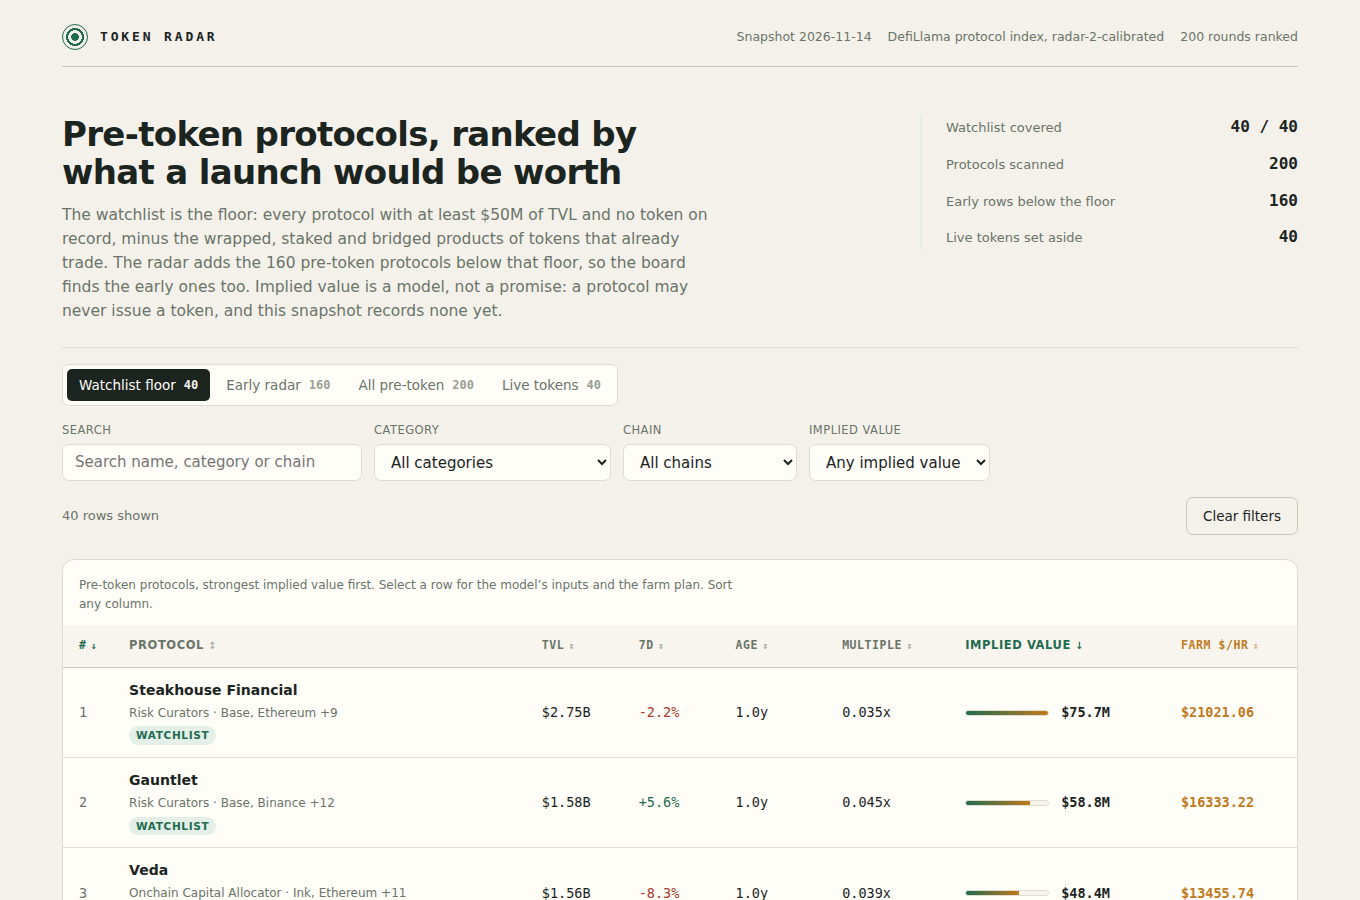
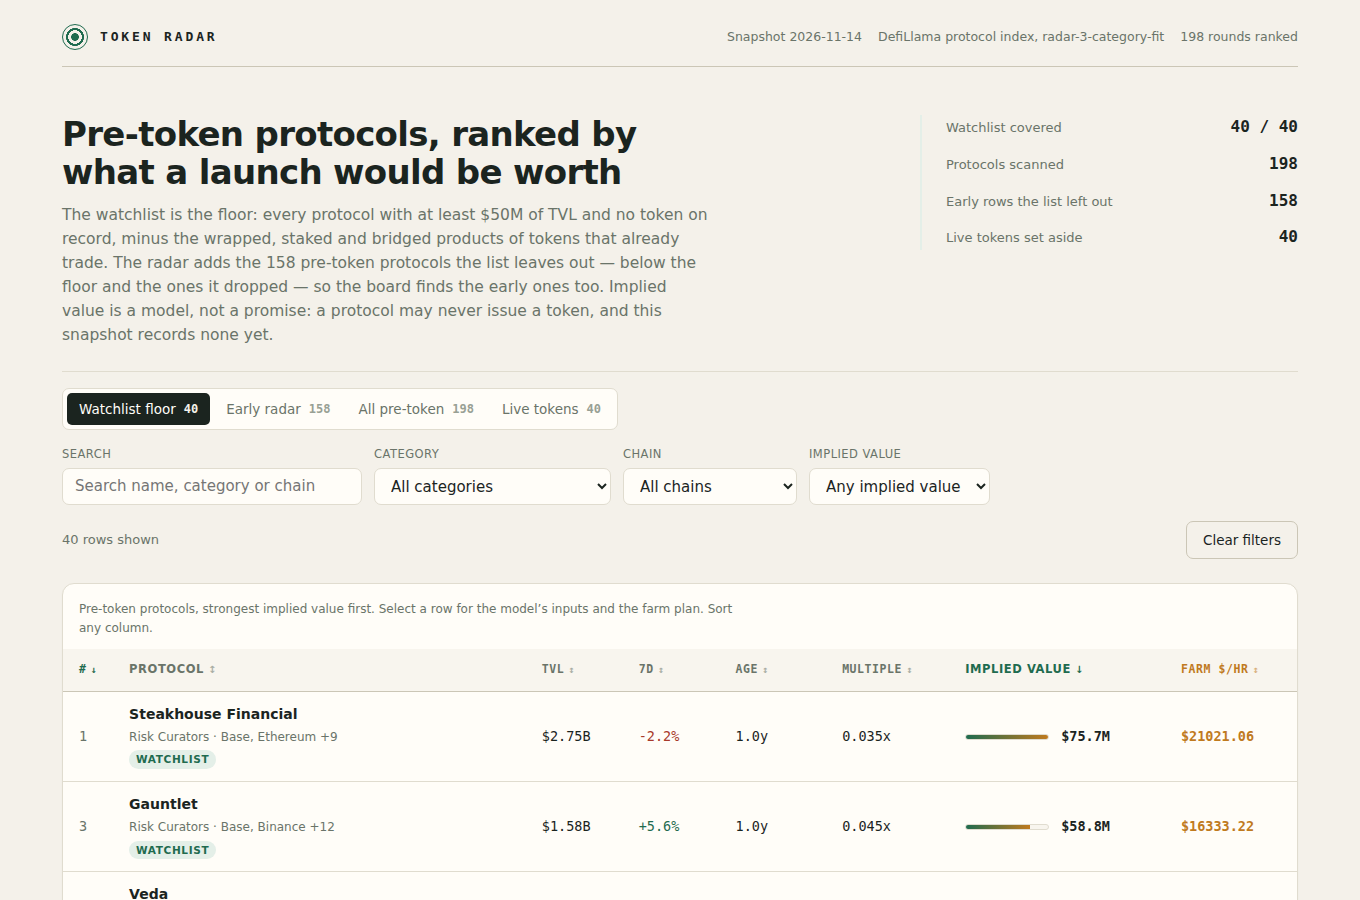
board: rank every pre-token protocol, score the early radar by implied value

diff --git a/dashboard/app.js b/dashboard/app.js
@@ -241,12 +241,12 @@
     return el('section', { class: 'lede' },
       el('div', { class: 'lede-copy' },
         el('h1', { text: 'Pre-token protocols, ranked by what a launch would be worth' }),
-        el('p', { text: 'The watchlist is the floor: every protocol with at least $' + Math.round(DATA.floor_usd / 1e6) + 'M of TVL and no token on record, minus the wrapped, staked and bridged products of tokens that already trade. The radar adds the ' + DATA.early_size + ' pre-token protocols below that floor, so the board finds the early ones too. Implied value is a model, not a promise: a protocol may never issue a token, and this snapshot records none yet.' })
+        el('p', { text: 'The watchlist is the floor: every protocol with at least $' + Math.round(DATA.floor_usd / 1e6) + 'M of TVL and no token on record, minus the wrapped, staked and bridged products of tokens that already trade. The radar adds the ' + DATA.early_size + ' pre-token protocols the list leaves out \u2014 below the floor and the ones it dropped \u2014 so the board finds the early ones too. Implied value is a model, not a promise: a protocol may never issue a token, and this snapshot records none yet.' })
       ),
       el('div', { class: 'facts' },
         fact('Watchlist covered', DATA.watchlist.covered ? DATA.watchlist.listed + ' / ' + DATA.watchlist.listed : DATA.watchlist.listed + ' listed'),
         fact('Protocols scanned', String(DATA.rows.length)),
-        fact('Early rows below the floor', String(DATA.early_size)),
+        fact('Early rows the list left out', String(DATA.early_size)),
         fact('Live tokens set aside', String(DATA.live_size))
       )
     );
@@ -439,7 +439,7 @@
         calibCard('Versus one fixed multiple', v.baselineTvlOnly.toFixed(3), 'the same test against a single global ' + v.baselineMultiple.toFixed(3) + 'x multiple, blind to TVL: ' + verdict),
         calibCard('Versus the size fit alone', v.fitOnlyAbsLogError.toFixed(3), 'the fit with no category correction: ' + catVerdict)
       ),
-      el('p', { class: 'sub' }, 'TVL and seven-day growth come from the snapshot. Age is how long DefiLlama has tracked the protocol, the best record of how long it has run with no token; an unlisted age uses ' + m.unknown_age_days + ' days. The early radar is every pre-token protocol below the watchlist floor, by TVL. The ' + DATA.watchlist.derived + ' protocols the rule derives from these ten fields and the ' + DATA.watchlist.listed + ' the snapshot names itself are reconciled below: the snapshot\u2019s list is the floor\u2019s authority and the board covers it whole.'),
+      el('p', { class: 'sub' }, 'TVL and seven-day growth come from the snapshot. Age is how long DefiLlama has tracked the protocol, the best record of how long it has run with no token; an unlisted age uses ' + m.unknown_age_days + ' days. The early radar is every pre-token protocol the watchlist leaves out \u2014 below the floor and the ones the list dropped \u2014 ranked by the same model. The ' + DATA.watchlist.derived + ' protocols the rule derives from these ten fields and the ' + DATA.watchlist.listed + ' the snapshot names itself are reconciled below: the snapshot\u2019s list is the floor\u2019s authority and the board covers it whole.'),
       watchAudit()
     );
   }

diff --git a/lib/model.ts b/lib/model.ts
@@ -94,8 +94,8 @@ export const MODEL: ModelConstants = {
 /** The model's version label: the dashboard names it and the rules quote it. */
 export const MODEL_VERSION = 'radar-3-category-fit';
 
-/** How many pre-token protocols below the watchlist floor the early radar carries, by TVL. */
-export const EARLY_ROWS = 160;
+/** How many pre-token protocols the watchlist leaves out the early radar carries, by implied value. */
+export const EARLY_ROWS = 200;
 
 /** How many live-token protocols the Live token view carries, by market cap. */
 export const LIVE_ROWS = 40;
@@ -526,9 +526,19 @@ export function auditWatchlist(snapshot: Snapshot): WatchlistAudit {
   };
 }
 
-/** Whether a protocol is one the board may rank: pre-token, not an exchange, not a versioned pool. */
+/**
+ * Whether a protocol is one the board may rank: a pre-token protocol the brief treats as a launch
+ * candidate. It records no token, and it is not a wrapped, staked or bridged product of one that
+ * trades — the same product classes the watchlist rule excludes — and not an exchange's own product.
+ * The board ranks only subjects of the kind the radar exists to find.
+ */
 export function isRankable(p: SnapshotProtocol): boolean {
-  return isPreToken(p) && p.category !== 'CEX' && !VERSIONED.test(p.name);
+  if (!isPreToken(p)) return false;
+  if (p.category !== null && PARENT_CATEGORIES.has(p.category)) return false;
+  if (VERSIONED.test(p.name)) return false;
+  if (WRAPPED_WORD.test(p.name)) return false;
+  if (EXCHANGE_PREFIXES.some((e) => p.name.startsWith(e))) return false;
+  return true;
 }
 
 /** The snapshot's protocol by slug. */
@@ -545,10 +555,16 @@ export function buildBoard(snapshot: Snapshot, model: ModelConstants = MODEL): B
     const p = index.get(slug);
     if (p !== undefined) chosen.set(slug, p);
   }
+  // The early radar: every pre-token protocol the watchlist leaves out, whether below the floor or a
+  // protocol at or above it the list dropped, scored by the same model, and the strongest EARLY_ROWS
+  // kept. The selection is by implied value, so the early rows are the ones the model rates, not
+  // merely the largest by TVL, and the floor stays what it is: a floor, never a ceiling.
   const early = snapshot.protocols
-    .filter((p) => !chosen.has(p.slug) && isRankable(p) && p.tvl_usd < snapshot.floor_usd)
-    .sort((a, b) => b.tvl_usd - a.tvl_usd || (a.slug < b.slug ? -1 : a.slug > b.slug ? 1 : 0))
-    .slice(0, EARLY_ROWS);
+    .filter((p) => !chosen.has(p.slug) && isRankable(p))
+    .map((p) => ({ p, implied: impliedValue(p, snapshot.as_of, comps, model).implied }))
+    .sort((a, b) => b.implied - a.implied || (a.p.slug < b.p.slug ? -1 : a.p.slug > b.p.slug ? 1 : 0))
+    .slice(0, EARLY_ROWS)
+    .map((e) => e.p);
   for (const p of early) chosen.set(p.slug, p);
 
   const scored = [...chosen.values()].map((p) => {
